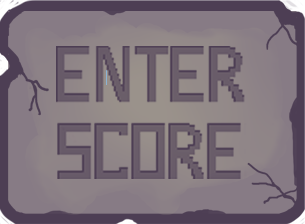
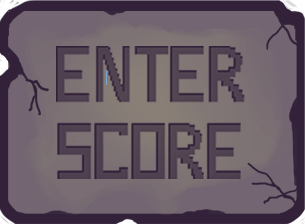
Added button_enterName

diff --git a/script/landingPage.js b/script/landingPage.js
@@ -316,7 +316,7 @@ function displayWin(){
                 	case 12:
                 			levelUnlock.lvl13 = true;
 		                	pageOptions.setLevelUnlock();
-                			pageOptions.reference.innerHTML+= "<img src= 'img/button_continue.png' onclick='enterName()'' id='continueButton'>";
+                			pageOptions.reference.innerHTML+= "<img src= 'img/button_enterscore.png' onclick='enterName()'' id='enterButton'>";
                 		break;
 
                 	default:
@@ -397,7 +397,7 @@ function displayTimeWin(){
                 	case 12:
                 			timeLevelUnlock.lvl13 = true;
 		                	pageOptions.setTimeLevelUnlock();
-                			pageOptions.reference.innerHTML+= "<img src= 'img/button_continue.png' onclick='enterName()'' id='continueButton'>";
+                			pageOptions.reference.innerHTML+= "<img src= 'img/button_enterscore.png' onclick='enterName()'' id='enterButton'>";
                 		break;
 
                 	default:

diff --git a/style/main.css b/style/main.css
@@ -27,6 +27,18 @@
 	background-size:100% 100%; */
 }
 
+#enterButton{
+
+	margin:0;
+	margin-left: auto;
+	margin-right:auto;
+	display:block;
+	height:auto;
+	width:  50%;
+	text-align:center;
+	margin-top:7%;
+}
+
 #levelModeButton{
 	margin:0;
 	margin-left: 25%;
